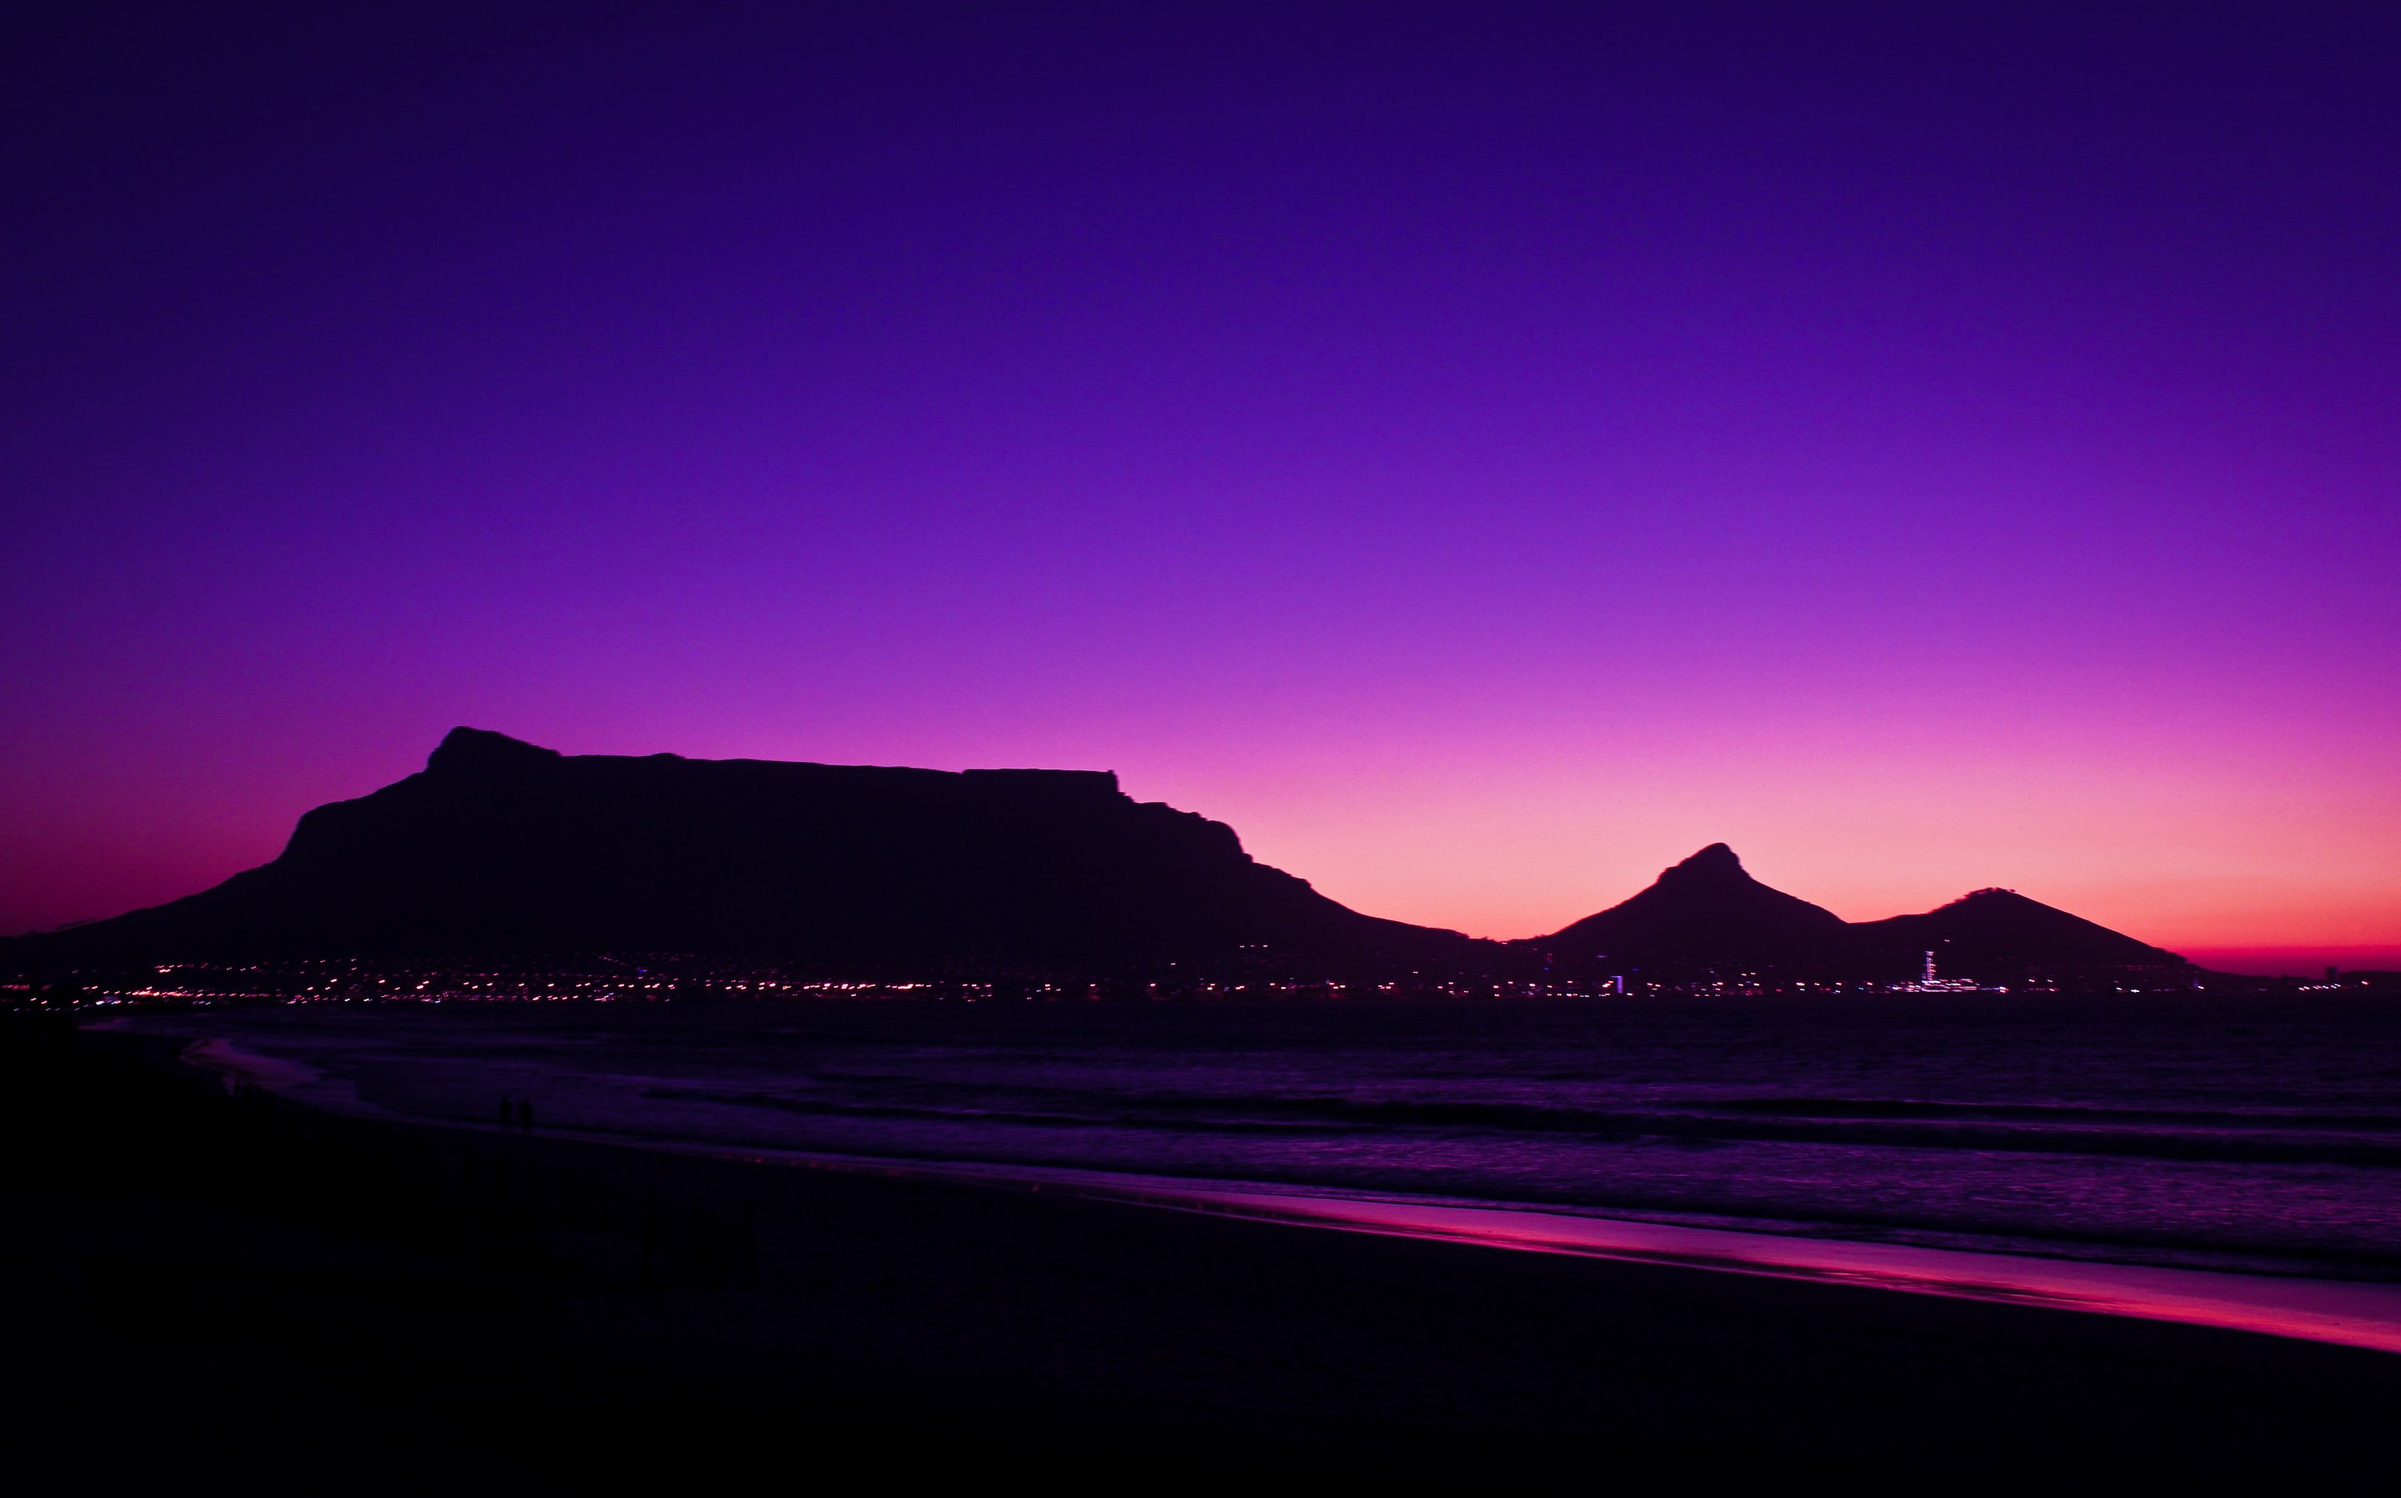
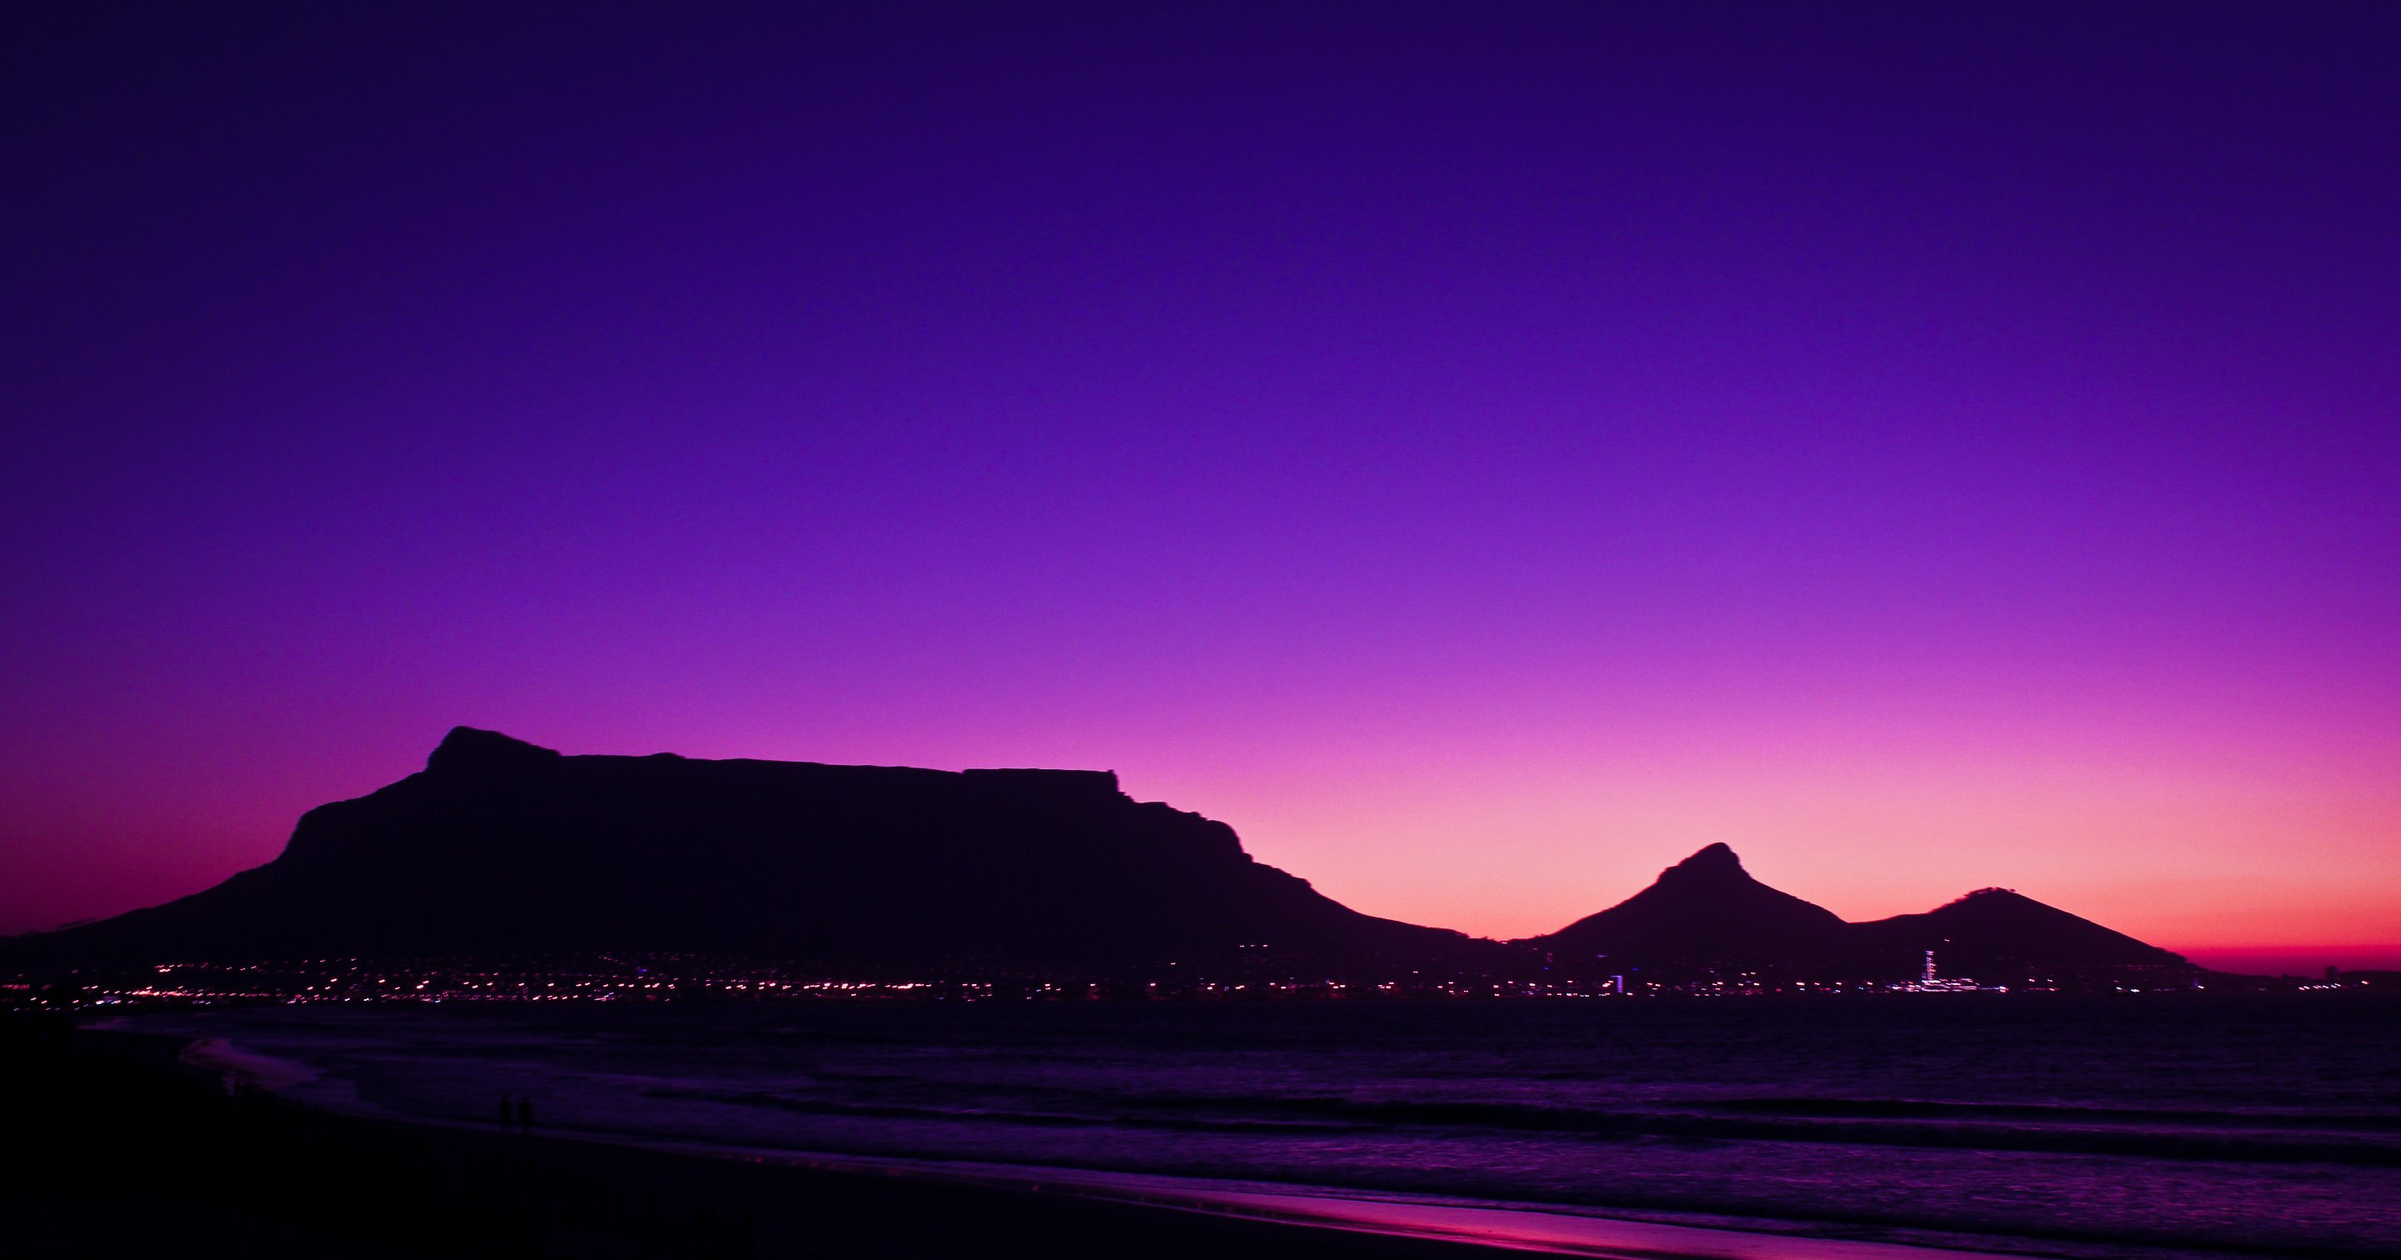
Add first blog post content

diff --git a/src/portfolio/components/blog/entry/BlogEntries.js b/src/portfolio/components/blog/entry/BlogEntries.js
@@ -1,18 +1,45 @@
+import React from "react";
+import Text from "./Text";
+
 import { Header as HeaderJune072019 } from "./June072019";
 
 const BlogEntries = [
   {
     date: "June 02, 2019",
-    title: "Placeholder for first week",
-    content:
-      "Lorem ipsum dolor sit amet, consectetur adipiscing elit. Nunc dignissim elit porta, fermentum metus eu, pulvinar tellus. Mauris interdum bibendum velit, eget aliquet eros porta \
-      sit amet. Etiam imperdiet dui nec urna laoreet, nec fermentum tellus bibendum. Ut maximus sodales viverra. Curabitur finibus neque id nisi tempor, vitae mollis ex cursus. Vivamus \
-      pharetra ac dolor lobortis blandit. Orci varius natoque penatibus et magnis dis parturient montes, nascetur ridiculus mus. Sed tempor purus a lacinia scelerisque. Nulla scelerisque \
-      scelerisque libero vitae dictum. Etiam nec interdum mauris. Nunc et vulputate diam. \
-    Morbi efficitur lacus et metus varius, vel ullamcorper enim laoreet. Duis consequat ac leo nec tincidunt. Donec auctor eget odio at laoreet. Cras rhoncus id erat eget eleifend. In quis \
-    ultricies ipsum, in lobortis ante. Vestibulum lobortis justo risus, ac egestas risus sodales ac. Nulla et aliquet sapien. Sed sed justo id diam euismod mattis id et dui. Curabitur \
-    lacinia placerat quam, vel convallis dui accumsan quis. In hac habitasse platea dictumst. Vestibulum vel tortor porta elit iaculis bibendum at ut mi. Donec placerat vestibulum lorem \
-    vel pharetra.",
+    title: "Beantown to Shebeentown: Week 1",
+    subtitle: "I ramble..",
+    content: (
+      <Text
+        content={`Having rounded out a fun weekend with my girlfriend (who I fucking
+        love), which included activities ranging from drinking in multi-million
+        dollar penthouses to smoothie bowls and canolies in the north end, I set
+        off for the BOS airport… with Kbow’s *new apartment* keys in my pockets.
+        Thankfully, I realized this while emptying them at security, and did not
+        travel 8,000 miles with them. Package secured. I arrived in Cape Town
+        22+ hours later to a dope flat in the heart of City Bowl, excited like a
+        kid before the first day of school.
+
+        Jansen, Ollie and the team gave me a warm welcome and the migration of
+        EC2 Instance Metering began. Living in town is cool, but it is fucking
+        LOUD. I grabbed a coffee with Luchelle's (a family friend) brother who
+        started a Colored Business Network to facilitate networking and
+        mentorship in the colored community. I am totally in for the cause and
+        the next email is going out some time next week.
+        
+        First Thursdays is lit, people selling and drinking beers in the
+        streets. BeerHouse --> Village Idiot --> Reset. This place is like Flash
+        but two floors.
+        
+        Needless to say, I missed my 8am physical therapy the next morning.
+        Hungover comradery in the office is a beautiful thing.
+
+        I won't bore you with too much more, but the weekend was filled
+        with rugby, a warm, homey lunch at some relatives,\ and walking around
+        the City until I felt that it was too dodgy. Cape Town is an absolute
+        ghost town on Sundays.\ My only thought is that it must be everyone's
+        hangovers from their First Thursdays weekend...`}
+      />
+    ),
     header: null,
     footer: null
   },

diff --git a/src/portfolio/components/header/Header.js b/src/portfolio/components/header/Header.js
@@ -8,74 +8,19 @@ import table_mountain from "../../../assets/img/table-mountain-sunset.jpg"; // T
 const Header = props => {
   return (
     //   Note: Add Inverted to invert the color scheme so it works on a black background
-    <div>
-      {/* <div className="main-cover"> */}
-
-      <div className="ui inverted vertical masthead center aligned segment">
-        <div className="ui fluid image">
-          <div
-            style={{
-              position: "absolute",
-              //   top: "2em",
-              width: "100%",
-              height: "auto"
-            }}
-          >
-            <h1
-              className="ui centered header"
-              style={{
-                backgroundColor: "rgba(255,255,255,0.4)",
-                display: "inline-block",
-                borderRadius: "15px",
-                paddingLeft: "0.3em",
-                paddingRight: "0.3em"
-              }}
-            >
-              Matthew Cyril Ruiters
-            </h1>
-          </div>
-          <img src={table_mountain} />
+    <div className="ui vertical masthead center aligned">
+      <div className="ui fluid image">
+        <div
+          className="ui vertical center aligned segment"
+          style={{
+            position: "absolute",
+            width: "100%",
+            height: "-webkit-fill-available"
+          }}
+        >
+          <h1 className="ui inverted centered header">Matthew Cyril Ruiters</h1>
         </div>
-      </div>
-
-      <div className="ui vertical stripe segment">
-        <div className="ui middle aligned stackable grid container">
-          <div className="center aligned one wide row">
-            <h1 className="ui centered header">About</h1>
-          </div>
-          <div className="center aligned three column row">
-            <div className="column">
-              <div className="ui segment">
-                <img className="ui centered medium image" src={dc} alt="dc" />
-              </div>
-            </div>
-            <div className="column">
-              <div className="ui segment">
-                <img
-                  className="ui medium image"
-                  src="https://d0.awsstatic.com/logos/powered-by-aws.png"
-                  alt="Powered by AWS Cloud Computing"
-                />
-              </div>
-              <div className="ui segment">
-                <img
-                  className="ui medium image"
-                  src={uva}
-                  alt="Powered by AWS Cloud Computing"
-                />
-              </div>
-            </div>
-            <div className="column">
-              <div className="ui segment">
-                <img
-                  className="ui centered small image"
-                  src={shoes}
-                  alt="shoes"
-                />
-              </div>
-            </div>
-          </div>
-        </div>
+        <img src={table_mountain} />
       </div>
     </div>
   );

diff --git a/src/portfolio/components/nav/MainNav.js b/src/portfolio/components/nav/MainNav.js
@@ -3,18 +3,20 @@ import React from "react";
 const MainNav = props => {
   return (
     //   Note: Add Inverted to invert the color scheme so it works on a black background
-    <div className="ui container">
-      <div className="ui large secondary  pointing menu">
-        <a className="toc item">
-          <i className="sidebar icon" />
-        </a>
-        <a className="active item">Home</a>
-        <a className="item">Work</a>
-        <a className="item">Company</a>
-        <a className="item">Careers</a>
-        <div className="right item">
-          <a className="ui inverted button">Log in</a>
-          <a className="ui inverted button">Sign Up</a>
+    <div className="ui inverted vertical masthead center aligned segment nav-segment">
+      <div className="ui container">
+        <div className="ui large secondary pointing inverted menu">
+          <a className="toc item">
+            <i className="sidebar icon" />
+          </a>
+          <a className="active item">Home</a>
+          <a className="item" href="#blog">
+            Blog
+          </a>
+          <a className="item">Career</a>
+          <div className="right item">
+            <a className="ui inverted button">Log in</a>
+          </div>
         </div>
       </div>
     </div>

diff --git a/src/portfolio/components/about/About.js b/src/portfolio/components/about/About.js
@@ -1,0 +1,38 @@
+<div className="ui vertical stripe segment">
+<div className="ui middle aligned stackable grid container">
+  <div className="center aligned one wide row">
+    <h1 className="ui centered header">About</h1>
+  </div>
+  <div className="center aligned three column row">
+    <div className="column">
+      <div className="ui segment">
+        <img className="ui centered medium image" src={dc} alt="dc" />
+      </div>
+    </div>
+    <div className="column">
+      <div className="ui segment">
+        <img
+          className="ui medium image"
+          src="https://d0.awsstatic.com/logos/powered-by-aws.png"
+          alt="Powered by AWS Cloud Computing"
+        />
+      </div>
+      <div className="ui segment">
+        <img
+          className="ui medium image"
+          src={uva}
+          alt="Powered by AWS Cloud Computing"
+        />
+      </div>
+    </div>
+    <div className="column">
+      <div className="ui segment">
+        <img
+          className="ui centered small image"
+          src={shoes}
+          alt="shoes"
+        />
+      </div>
+    </div>
+  </div>
+</div>

diff --git a/src/portfolio/template.css b/src/portfolio/template.css
@@ -2,13 +2,11 @@
     .hidden.menu {
         display: none;
       }
+
+      .date {
+        color: darkmagenta;
+      }
       
-      /* .main-cover {
-        background-image: url('../assets/img/table_mountain.jpg') !important;
-        /* background-size: cover !important; 
-        background-repeat: no-repeat;
-        background-size: cover;
-      } */
       .masthead.segment {
         /* min-height: 700px; */
         min-height: min-content;
@@ -20,11 +18,16 @@
       .masthead .ui.menu .ui.button {
         margin-left: 0.5em;
       }
-      .masthead h1.ui.header {
+      .masthead h1.ui.centered.header {
         margin-top: 1.5em;
         margin-bottom: 1em;
         font-size: 4em;
         font-weight: normal;
+        background-color: rgba(255,255,255,0.4);
+        display: inline-block;
+        border-radius: 15px;
+        padding-left: 0.3em;
+        padding-right: 0.3em;
       }
       .masthead h2 {
         font-size: 1.7em;

diff --git a/src/portfolio/components/blog/BlogPost.js b/src/portfolio/components/blog/BlogPost.js
@@ -17,8 +17,13 @@ const BlogPost = props => {
                 //Link?
                 > */}
                 {props.title}
+                <div className="sub header">{props.subtitle}</div>
+                <div className="sub header">
+                  <div className="date">
+                    <strong>{props.date}</strong>
+                  </div>
+                </div>
                 {/* </a> */}
-                <div className="sub header">{props.date}</div>
               </h2>
             </div>
           </div>

diff --git a/src/portfolio/components/blog/Blog.js b/src/portfolio/components/blog/Blog.js
@@ -11,6 +11,7 @@ const Blog = props => {
         key={entry.date}
         date={entry.date}
         title={entry.title}
+        subtitle={entry.subtitle}
         content={entry.content}
         header={entry.header}
         footer={entry.footer}
@@ -19,6 +20,7 @@ const Blog = props => {
   });
   return (
     <div>
+      <a name="blog" />
       <BlogHeader />
       <div className="blog-list">{blogEntries}</div>
     </div>

diff --git a/src/portfolio/components/blog/entry/Text.js b/src/portfolio/components/blog/entry/Text.js
@@ -1,0 +1,11 @@
+import React from "react";
+
+const Text = ({ content }) => {
+  return (
+    <div className="text" style={{ whiteSpace: "pre" }}>
+      {content}
+    </div>
+  );
+};
+
+export default Text;
